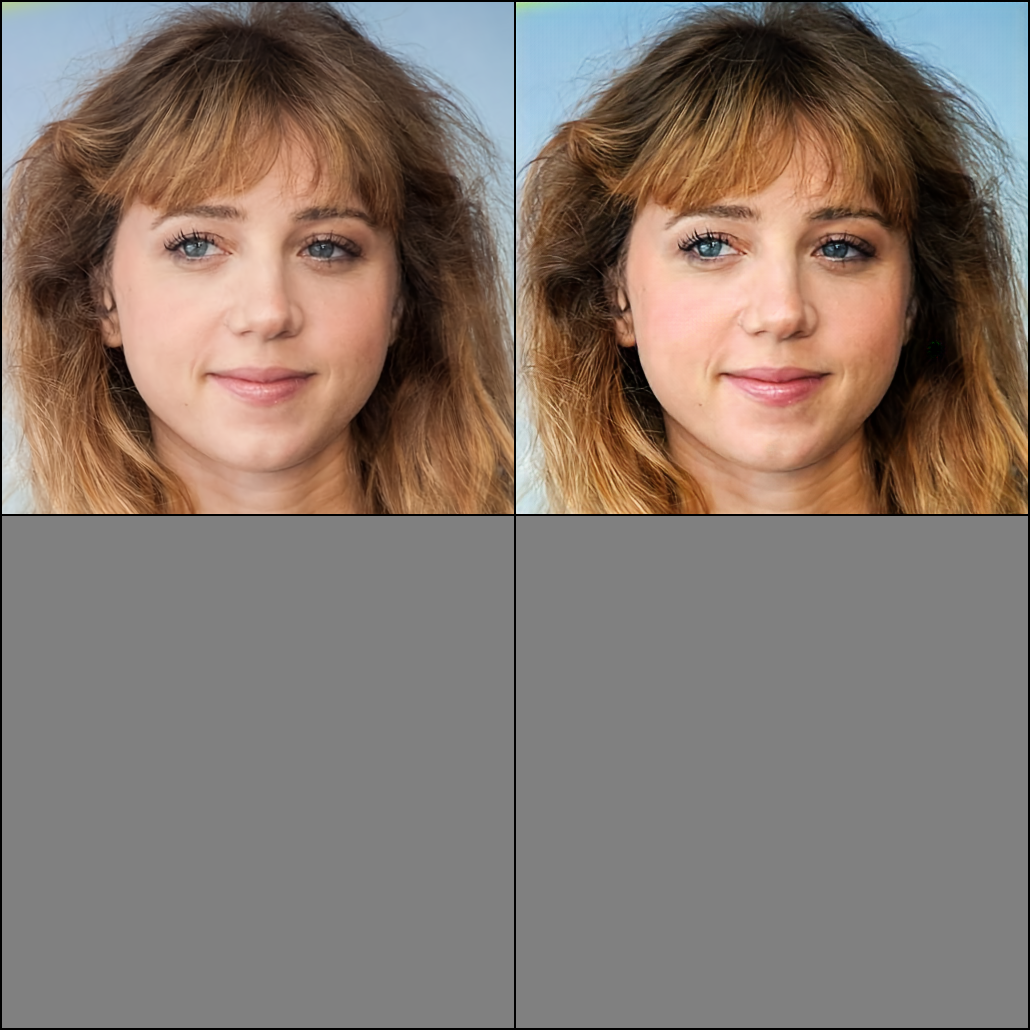
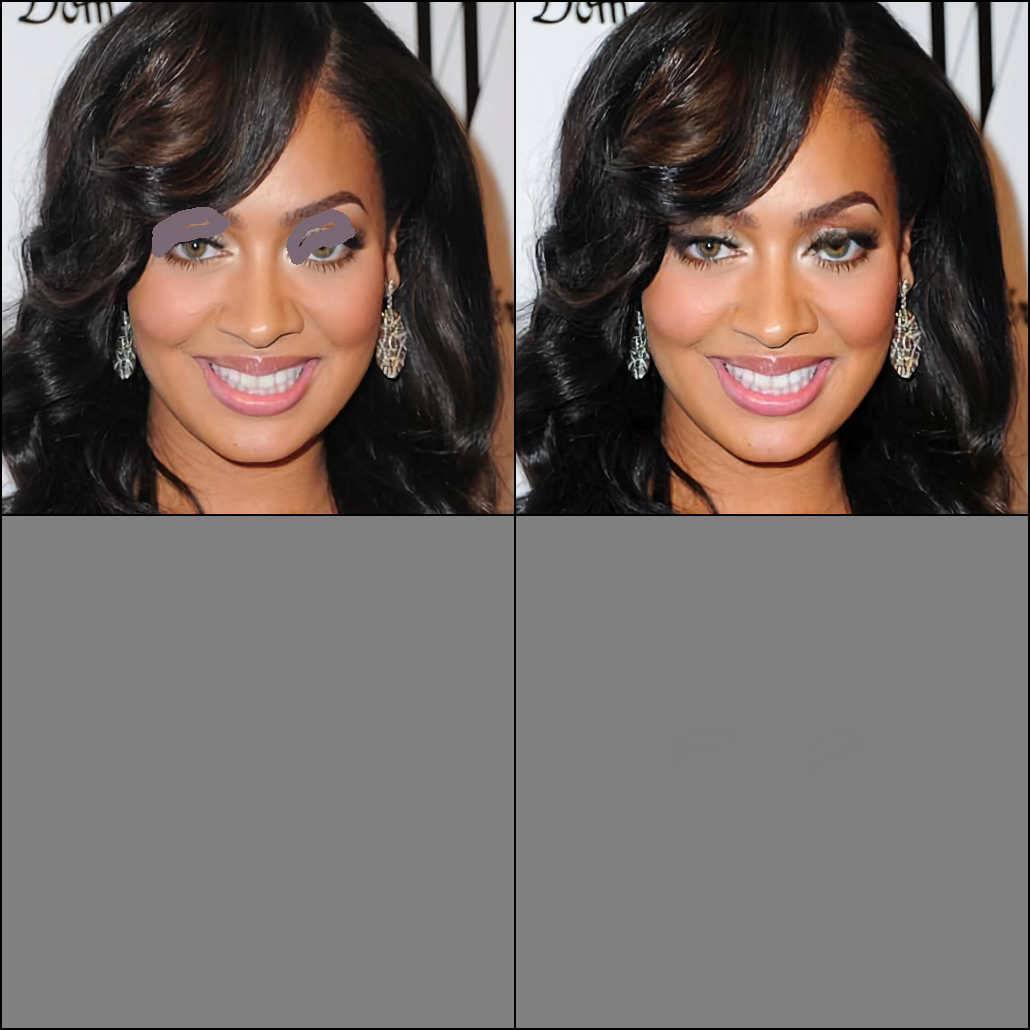
feat: 성형사진 보여주기 기능 추가

diff --git a/B206-python-repo/main.py b/B206-python-repo/main.py
@@ -52,7 +52,6 @@ async def sketch(file: UploadFile = File(...), sketch_points: str=File(...), cus
     backend = Backend(singletonModel)
     print("uploadPath: ", uploadPath)
     backend.open(uploadPath)
-    # backend.make_sketch(sketch_points)
     backend.complete(sketch_points)
 
 
@@ -60,24 +59,30 @@ async def sketch(file: UploadFile = File(...), sketch_points: str=File(...), cus
     saveDir = os.path.join(saveDir, customerId)
     if os.path.exists(saveDir) is False:
         os.makedirs(saveDir)
-    
-    # savePath = f"{saveDir}/{file.filename}"
-    savePath = os.path.join(saveDir,file.filename)
-    print("savePath: ", savePath)
-    backend.save_img(savePath)
-    
-    # return JSONResponse(
-    #     status_code=status.HTTP_200_OK,
-    #     content={"savePath": f"{savePath}"}
-    # )
-    return FileResponse(savePath, media_type="image/png",filename="result.png")
+    # else:
+    #     for name in os.listdir(saveDir):
+    #         file_path = os.path.join(saveDir, name)
+    #         os.remove(file_path)
 
+    print("savePath: ", os.path.join(saveDir,file.filename))
+    backend.save_img(os.path.join(saveDir,file.filename))
 
+    return {
+        "url":f"http://localhost:8000/save/{customerId}/{file.filename}"
+    }
+
+@app.get("/save/{customerId}/{fileName}")
+async def hello(customerId: str, fileName: str):
+    return FileResponse(f"./save/{customerId}/{fileName}", media_type="image/png",filename="result.png")
+
+opt = TestConfig().create_config()
+model = create_model(opt)
+singletonModel = SingletonModel(model)
 
 if __name__ == "__main__":
     # backend = Backend()
-    opt = TestConfig().create_config()
-    model = create_model(opt)
-    singletonModel = SingletonModel(model)
-    
-    uvicorn.run(app, host="localhost", port=8000)
+    # opt = TestConfig().create_config()
+    # model = create_model(opt)
+    # singletonModel = SingletonModel(model)
+    # print("hello")
+    uvicorn.run("main:app", host="localhost", port=8000, reload=True)
